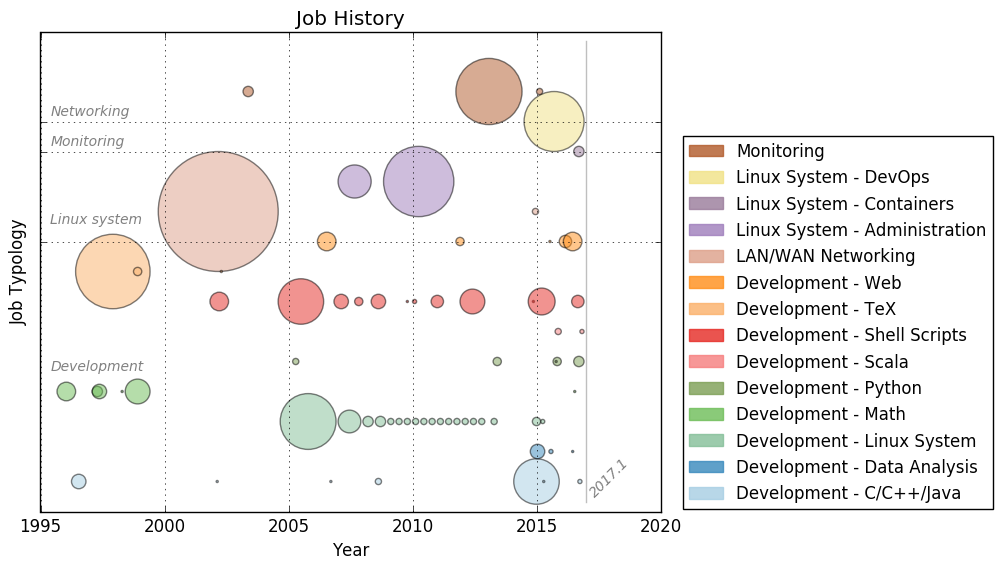
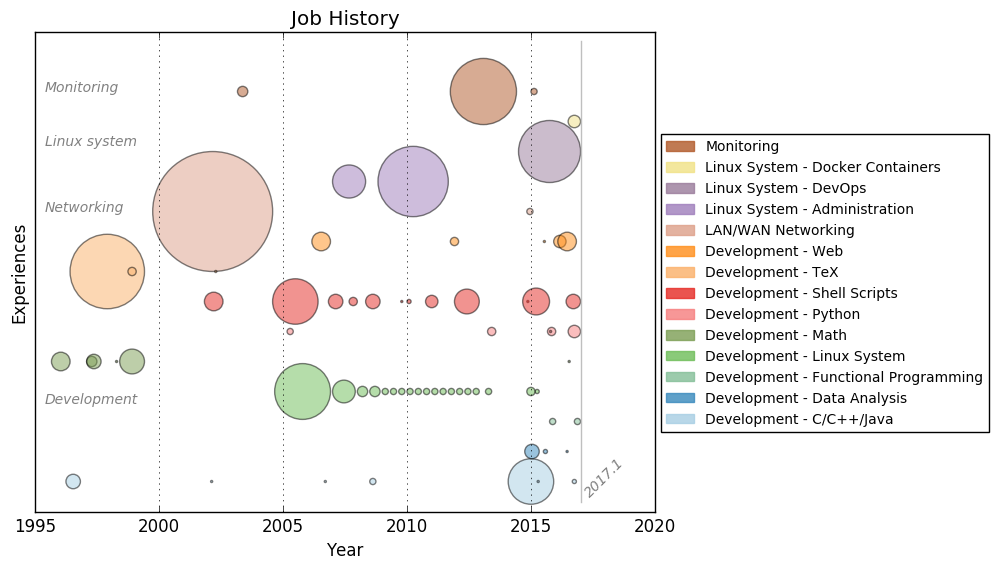
plot-experiences.py: update experiences

diff --git a/scripts/plot-experiences.py b/scripts/plot-experiences.py
@@ -80,13 +80,13 @@ def make_jobs_plot(experiences, area_adj=0.84):
 
     # Add axis labels
     ax.set_xlabel('Year')
-    ax.set_ylabel('Job Typology')
+    ax.set_ylabel('Experiences')
     ax.set_title('Job History')
     ax.set_xlim([1995, now.year + 3])
     ax.set_ylim([-1, len(expr_types) + 1])
 
     # Add grid - fixme: yticks[] has to be manually adjusted
-    yticks = [8, 11, 12]
+    yticks = []
     ax.set_yticks(yticks)
     ax.set_yticklabels([''])
     ax.grid('on')
@@ -97,10 +97,10 @@ def make_jobs_plot(experiences, area_adj=0.84):
 
     # Add some text labels to hopefully improve the plot readability
     # fixme: the y coordinate has to be set manually
-    textlabel(ax, 1995.4,  3.7, 'Development')
-    textlabel(ax, 1995.4,  8.6, 'Linux system')
-    textlabel(ax, 1995.4, 11.2, 'Monitoring')
-    textlabel(ax, 1995.4, 12.2, 'Networking')
+    textlabel(ax, 1995.4,  2.6, 'Development')
+    textlabel(ax, 1995.4,  9.0, 'Networking')
+    textlabel(ax, 1995.4, 11.2, 'Linux system')
+    textlabel(ax, 1995.4, 13.0, 'Monitoring')
     textlabel(ax, xnow+0.05, 0.5, "%s.%s" % (now.year, now.month), rotation=45)
 
     # Add a legend
@@ -109,7 +109,7 @@ def make_jobs_plot(experiences, area_adj=0.84):
              label=e, alpha=0.8) for e in expr_types)
     lgd = ax.legend(reversed(handles), reversed(expr_types),
                     loc='upper right', bbox_to_anchor=(1.55, 0.8),
-                    prop={'size': 12})
+                    prop={'size': 10})
 
     return fig, lgd
 
